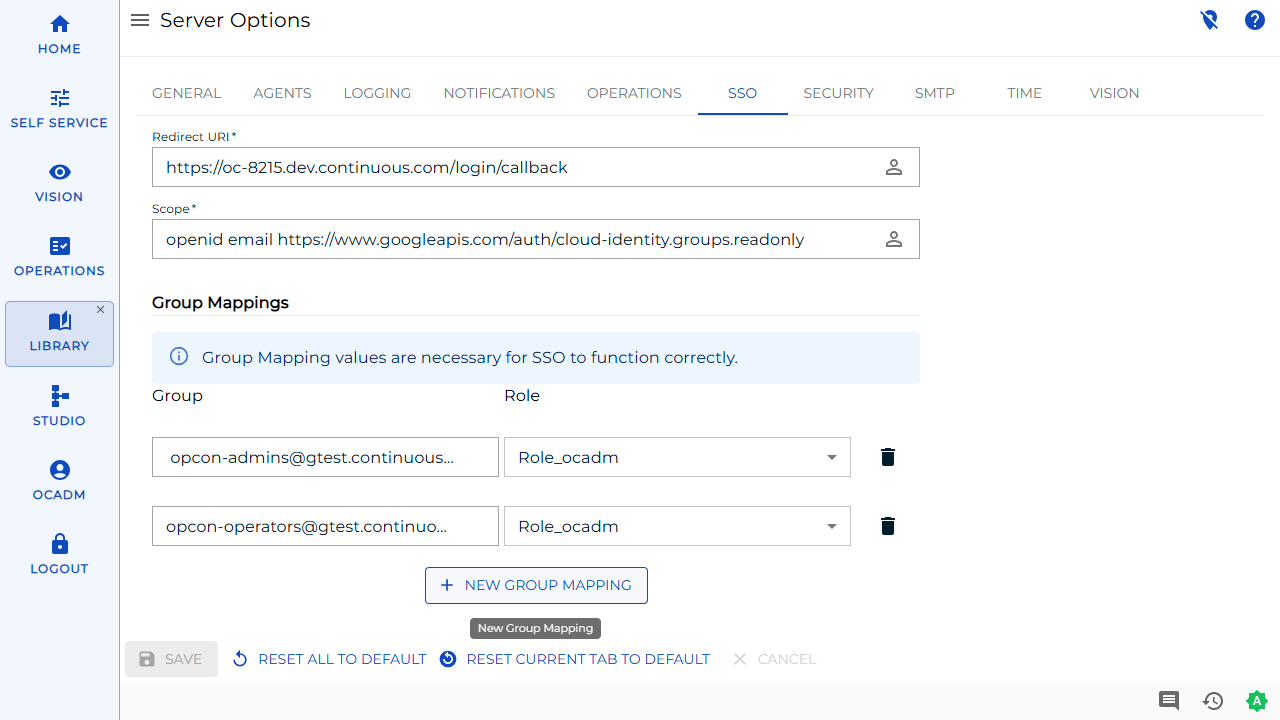
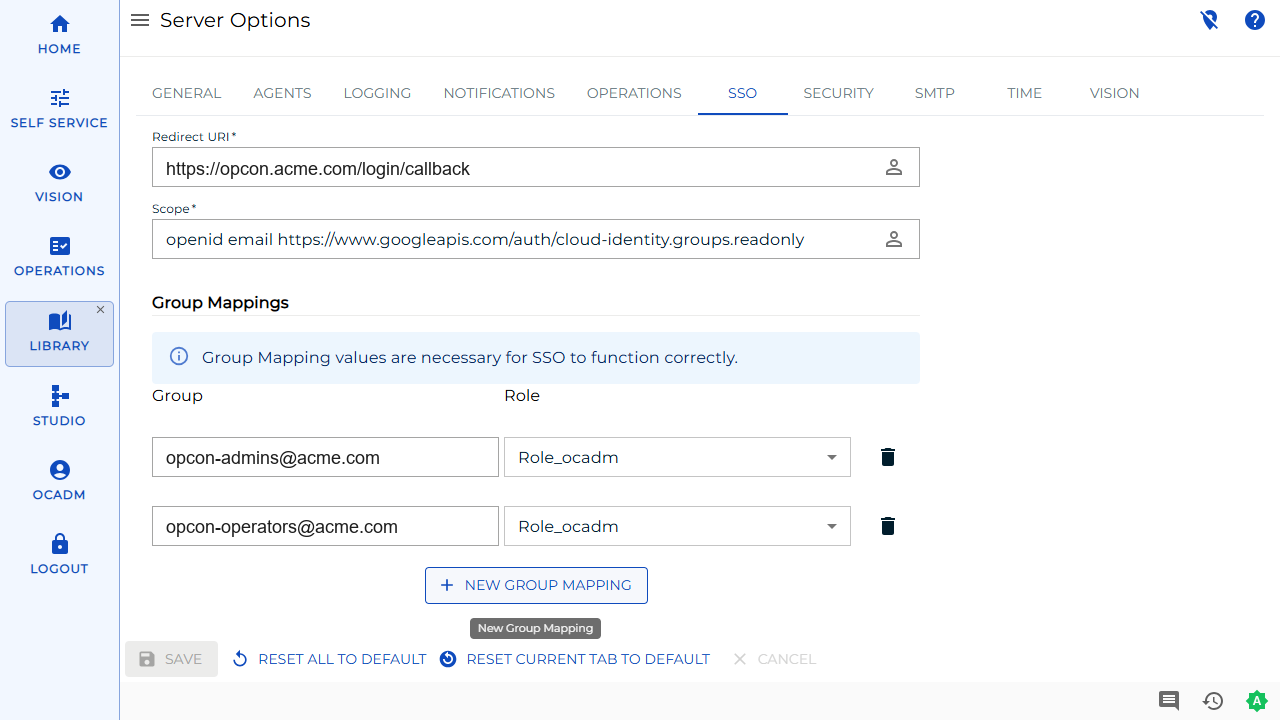
Correct Google SSO docs: disabled-user row, scope default, domain errors, direct groups; replace internal values in screenshots

Changed region(s): [[0.125, 0.7028, 0.3438, 0.7639], [0.125, 0.2139, 0.4375, 0.2444], [0.125, 0.6111, 0.3438, 0.6722]]

diff --git a/docs/Files/UI/Solution-Manager/Library/ServerOptions/Managing-SSO-Configurations.md b/docs/Files/UI/Solution-Manager/Library/ServerOptions/Managing-SSO-Configurations.md
@@ -49,9 +49,9 @@ To configure SSO Settings, go to **Library** > **Server Options** > Select the *
 
 1. Enter a **Client ID**. Your client application's identifier as registered with the OIDC/OAuth2 provider
 
-1. Enter a **Redirect URI**. The location where the authorization server sends the user after successful authorization. Adding **/login/callback** is **required** for SSO to function. For example, **`https://host:80443/login/callback`**.
+1. Enter a **Redirect URI**. The location where the authorization server sends the user after successful authorization. Adding **/login/callback** is **required** for SSO to function. For example, **`https://host:8443/login/callback`**.
 
-1. Enter a **Scope**. The scopes requested from the OIDC/OAuth2 provider (default: **openid**). Separate multiple scopes with a space
+1. Enter a **Scope**. The scopes requested from the OIDC/OAuth2 provider (blank by default). Separate multiple scopes with a space
 
 \* OpenID Connect (OIDC) is an open authentication protocol that works on top of the OAuth 2.0 (OAuth2) framework.
 
@@ -67,7 +67,7 @@ Selecting **Google** as the Provider adds two additional required fields, shown 
 
 :::note
 
-Google requires the **`https://www.googleapis.com/auth/cloud-identity.groups.readonly`** scope, in addition to **openid** and **email**, so OpCon can look up the groups a signed-in user belongs to. Enter all three scopes, space-separated, in the **Scope** field — the value must start with **`openid email`**, followed by the Cloud Identity scope, for example: `openid email https://www.googleapis.com/auth/cloud-identity.groups.readonly`
+Google requires the **`https://www.googleapis.com/auth/cloud-identity.groups.readonly`** scope, in addition to **openid** and **email**, so OpCon can look up the groups a signed-in user belongs to. Enter all three scopes, space-separated, in the **Scope** field, for example: `openid email https://www.googleapis.com/auth/cloud-identity.groups.readonly`
 
 :::
 
@@ -98,6 +98,7 @@ The **test connection button** retrieves metadata from the IdP using the value i
 - SSO can be implemented with any IdP that follows the OpenID Connect authentication protocol
 - The IdP must return a token with a **groups** claim containing the user's group memberships and an **opconid** claim composed of the user's email
 - For **Google**, group names are matched to **Group Mappings** without regard to letter case, since Google Workspace always returns group email addresses in lowercase. For every other provider, group names must match exactly
+- For **Google**, OpCon reads only the groups the user belongs to directly. Membership that comes through a group nested inside another group is not included
 - See examples below for [**Okta**](#okta-application), [**Azure AD**](#azure-ad-application), and [**Google Workspace**](#google-workspace-application)
 
 :::
@@ -115,7 +116,7 @@ The following table describes actions taken when a user logs in through Single S
 | Y                   | Y               | Y                    | Y                             | Y                | No action user is already in sync                         |
 | Y                   | N               | N/A                  | Y                             | N/A              | User created and added to role                            |
 | Y                   | Y               | N                    | Y                             | Y                | User added to role                                        |
-| Y                   | Y               | Y                    | Y                             | N                | User enabled in OpCon                                     |
+| Y                   | Y               | Y                    | Y                             | N                | User refused. The account is disabled in OpCon and stays disabled |
 | Y                   | Y               | Y                    | N                             | Y                | No action since user cannot access the application        |
 | Y                   | Y               | Y                    | N                             | N                | No action since user cannot access the application        |
 | N                   | Y               | Y                    | N/A                           | Y                | No action since user does not belong to an existing group |
@@ -296,7 +297,7 @@ Common errors when connecting to your IdP OIDC application:
 - **Incorrect Authority**: The authority (OIDC provider URL) must match exactly. Any mismatch causes connection and authentication failures
 - **Invalid Customer ID**: The customer ID in the SSO configuration must match the one expected by your IdP. An incorrect customer ID prevents successful authentication
 - **Google: "have not been mapped to any roles"**: The signed-in Google account belongs to no group listed in **Group Mappings**. Add the group, or add the user to a mapped group in Google Admin
-- **Google: sign-in fails immediately after entering an email address**: The account's domain is not in **Permitted Workspace Domains**, or the account is a personal Gmail account rather than a Workspace account
+- **Google: "User's Workspace domain '...' does not match the configured permitted domain" or "User account does not belong to a Google Workspace domain"**: These appear after the Google sign-in completes. The account's domain is not in **Permitted Workspace Domains**, or the account is a personal Gmail account rather than a Workspace account
 
 :::
 
@@ -332,7 +333,7 @@ The Client ID, Authority URL, and Redirect URI are registered with the IdP and m
 | Authority | URL of the OIDC/OAuth2 provider | — | Required; the Test Connection button uses this value to retrieve IdP metadata |
 | Client ID | Client application identifier registered with the OIDC/OAuth2 provider | — | — |
 | Redirect URI | Location the authorization server sends the user after successful authorization | — | Must include `/login/callback` |
-| Scope | Scopes requested from the OIDC/OAuth2 provider | openid | Separate multiple scopes with a space. For Google, must also include `email` and `https://www.googleapis.com/auth/cloud-identity.groups.readonly` |
+| Scope | Scopes requested from the OIDC/OAuth2 provider | — | Separate multiple scopes with a space. For Google, must also include `email` and `https://www.googleapis.com/auth/cloud-identity.groups.readonly` |
 | Permitted Workspace Domains | Google Workspace domains allowed to sign in | — | Google only; required when Provider is Google |
 | Client Secret | Client secret from the OAuth client | — | Google only; required when Provider is Google. Write-only — never displayed after saving |
 
